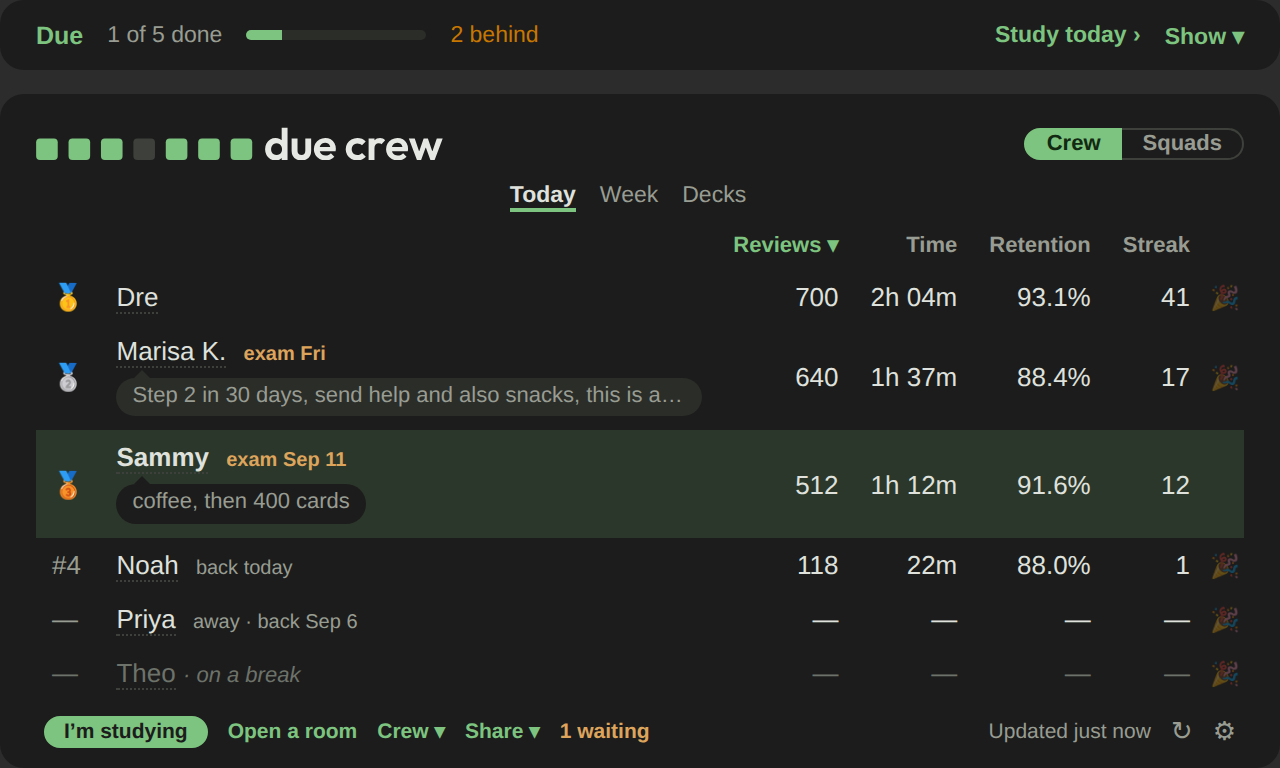
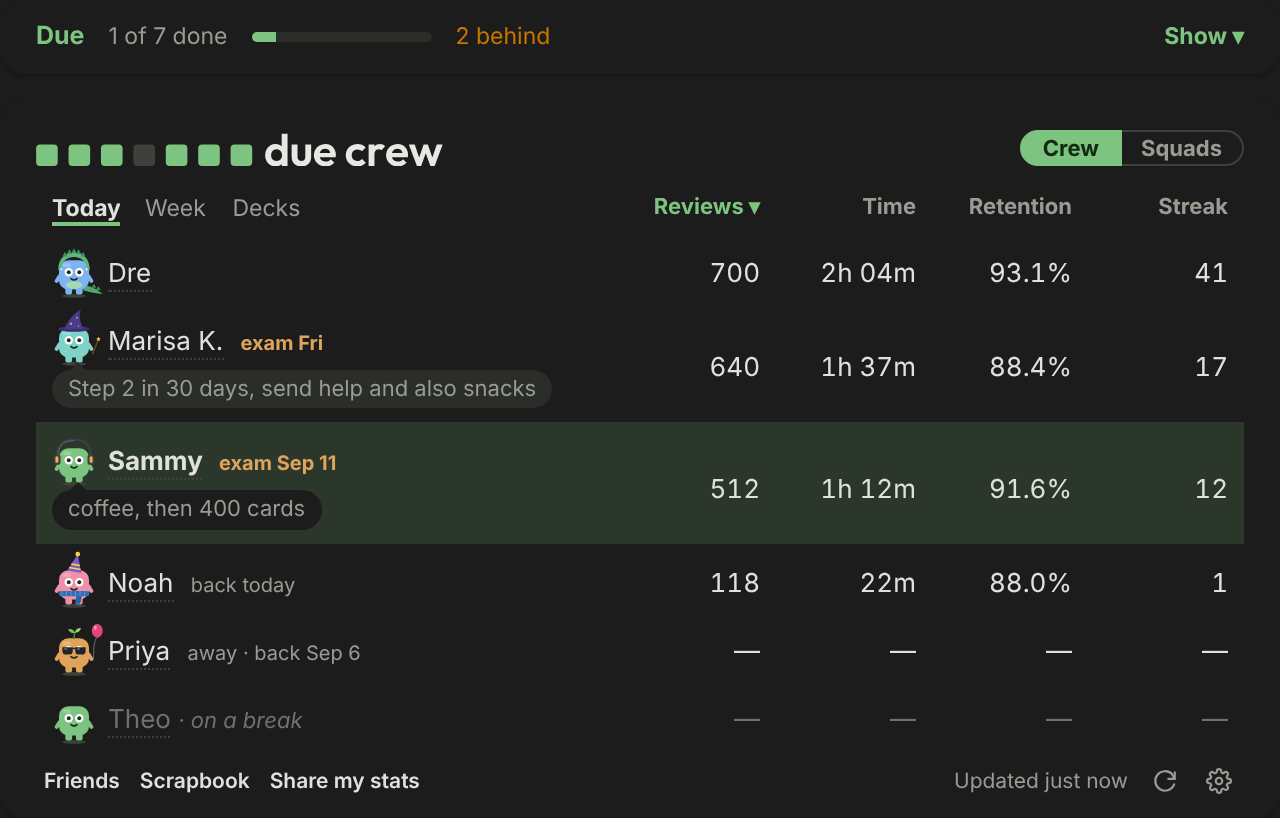
Stage 6: the landing page, README and their pictures are the product as it is now
No rank marks on the landing page's small board; hooks, Party, Magic
search and catching up said; board.png, plans.png and the site's light
and dark pictures rendered from the current board (tools/readme_images).

Claude-Session: https://claude.ai/code/session_01T9RYS9itCJ3KTL7nGa5aCe

diff --git a/site/public/index.html b/site/public/index.html
@@ -54,8 +54,8 @@
   .small { font-size: 13px; }
   .crop table { width: 100%; border-collapse: collapse; font-size: 15px; border: 1px solid var(--line); border-radius: 12px; overflow: hidden; }
   .crop td { padding: 9px 8px; white-space: nowrap; }
-  .crop td:nth-child(n+3) { text-align: right; font-variant-numeric: tabular-nums; }
-  .crop td:nth-child(2) { width: 100%; }
+  .crop td:nth-child(n+2) { text-align: right; font-variant-numeric: tabular-nums; }
+  .crop td:first-child { width: 100%; padding-left: 14px; }
   .crop tr.you td { background: var(--well); }
   .crop .live { color: var(--accent); font-size: 12px; font-weight: 700; }
   @media (max-width: 700px) {
@@ -94,20 +94,23 @@
   </div>
 
   <figure class="wide">
-    <picture><source srcset="/board-dark.png" media="(prefers-color-scheme: dark)"><img src="/board.png" alt="The Due Crew board on Anki's Decks screen" width="1280" height="768"></picture>
+    <picture><source srcset="/board-dark.png" media="(prefers-color-scheme: dark)"><img src="/board.png" alt="The Due Crew board on Anki&#39;s Decks screen" width="1280" height="818"></picture>
   </figure>
   <figure class="phone crop" aria-label="The Due Crew board, three rows">
     <table>
-      <tr><td>&#129351;</td><td>Jordan</td><td>840</td><td>2h 16m</td></tr>
-      <tr class="you"><td>#2</td><td><b>You</b></td><td>512</td><td>1h 12m</td></tr>
-      <tr><td>#3</td><td>Dre <span class="live">studying now</span></td><td>118</td><td>22m</td></tr>
+      <tr><td>Jordan</td><td>840</td><td>2h 16m</td></tr>
+      <tr class="you"><td><b>You</b></td><td>512</td><td>1h 12m</td></tr>
+      <tr><td>Dre <span class="live">studying now</span></td><td>118</td><td>22m</td></tr>
     </table>
   </figure>
 
   <div class="feat">
-    <div><b>Cheers</b>Send one and it rains down their screen.</div>
+    <div><b>Cheers</b>Send one and a little show lands on their screen.</div>
     <div><b>Study rooms</b>Rounds and breaks, together.</div>
     <div><b>Plans</b>A class&rsquo;s cards open on their day. <a href="/classes">For classes</a></div>
+    <div><b>Magic search</b>One box finds the cards for whatever&rsquo;s coming up.</div>
+    <div><b>Hooks</b>The line that made a card click, shared with your crew.</div>
+    <div><b>Party</b>Party games on your own cards, phones in hand.</div>
   </div>
 
   <p class="muted">Free and open source &middot; on <a href="https://ankiweb.net/shared/info/2035408484">AnkiWeb</a> &middot; needs Anki 2.1.55 or newer.</p>

diff --git a/tools/readme_images.js b/tools/readme_images.js
@@ -15,5 +15,12 @@ const { chromium } = require("playwright");
     await (await page.$(sel)).screenshot({ path: path.join(__dirname, "..", "docs", "images", png) });
     console.log("wrote docs/images/" + png);
   }
+  // 3.9.12: the landing page's two (duecrew.com's board.png and board-dark.png)
+  for (const [file, png] of [["readme_site.html", "board.png"], ["readme_site_dark.html", "board-dark.png"]]) {
+    await page.goto("file://" + path.join(__dirname, file));
+    await page.waitForTimeout(400);
+    await (await page.$("#shot")).screenshot({ path: path.join(__dirname, "..", "site", "public", png) });
+    console.log("wrote site/public/" + png);
+  }
   await browser.close();
 })();

diff --git a/tools/readme_images.py b/tools/readme_images.py
@@ -42,7 +42,7 @@ for e in CREW:
 DATA = {"entries": CREW, "labels": L, "tomorrow": P["TOMORROW"], "pending": []}
 
 ME = {"period": "today", "accent": "green", "sev_look": ["headphones"], "sev_closet": {"headphones": L[-1]},
-      "use_told": True}  # (the once-only line about counts isn't the listing's picture)
+      "use_told": True, "live_told": True}  # (the once-only lines aren't the listing's picture)
 html = board.render(DATA, ME, P["now_ts"] - 30,
                     due=dict(P["_DV"], folded=True), plans=P["PLANS"], you=P["_YOU"]("today", folded=True))
 page = f"""<!doctype html><html><head><meta charset="utf-8"><title>README board</title>
@@ -65,3 +65,16 @@ out = os.path.join(HERE, "readme_plans.html")
 with open(out, "w", encoding="utf-8") as f:
     f.write(page)
 print("wrote", out)
+
+# 3.9.12: the landing page's pictures (site/public/board.png and board-dark.png), the same board in each theme
+for name, theme, ground in (("readme_site.html", "light", "#fbfbf8"), ("readme_site_dark.html", "dark", "#1c1c1c")):
+    html = board.render(DATA, dict(ME, theme=theme), P["now_ts"] - 30,
+                        due=dict(P["_DV"], folded=True), plans=P["PLANS"], you=P["_YOU"]("today", folded=True))
+    page = f"""<!doctype html><html><head><meta charset="utf-8"><title>Landing board</title>
+<style>body {{ margin: 0; padding: 16px; background: {ground}; font-family: -apple-system, sans-serif; }}
+#shot {{ width: 640px; }}</style></head>
+<body><center><div id="shot">{html}</div></center></body></html>"""
+    out = os.path.join(HERE, name)
+    with open(out, "w", encoding="utf-8") as f:
+        f.write(page)
+    print("wrote", out)

diff --git a/README.md b/README.md
@@ -5,7 +5,7 @@
 
 Your friends' studying next to yours, on Anki's Decks screen.
 
-<img alt="The Due Crew board on the Decks screen, your day folded above it" src="https://raw.githubusercontent.com/sammyc2472/due-crew/main/docs/images/board.png?v=10" width="600">
+<img alt="The Due Crew board on the Decks screen, your day folded above it" src="https://raw.githubusercontent.com/sammyc2472/due-crew/main/docs/images/board.png?v=11" width="600">
 
 Studying for a big exam is more fun with friends! Due Crew puts your crew on
 Anki's Decks screen: who's studied today, who's studying now, how far
@@ -28,8 +28,9 @@ your own colour.
 
 <img alt="A study room in Anki's top bar" src="https://raw.githubusercontent.com/sammyc2472/due-crew/main/docs/images/room.png?v=2" width="420">
 
-- **Stuck on a card?** Ask your crew. Anyone who has it down can send a
-  tip, which shows next time the card comes up.
+- **Hooks.** Leave the line that made a card click. It comes up, folded
+  till you ask, the next time you miss that card, and for any friend who
+  misses it too. Nobody's left one? Ask your crew.
 - **Good-luck cards.** Leave a line the night before a friend's exam.
 - **Profiles.** Half a year of a friend's studying, and your days in a
   row together.
@@ -65,15 +66,13 @@ Above the board is yours.
   study, your plans' decks first. At the end: take five, go again, or stop there. Your crew
   sees you're studying. Not started by your usual time? Today nudges you.
 - **Insights**, for any deck: your reviews for the next six weeks,
-  counted from your own reviews, and what stopping new cards before your
-  exam would do (one click to stop, one to start again); the cards Anki
-  won't show you before your exam; the leeches Anki stopped showing you,
-  one button each to bring them back; what isn't sticking yet; and a map
-  of what you know, by topic or by the week you started it. It's worked
+  counted from your own reviews; the leeches Anki stopped showing you;
+  how you study; and a map of what you know, by topic or by the week you
+  started it. It only shows: nothing there changes a card. It's worked
   out in your Anki and never sent; copy the map as a picture or as text
   if you want to share it.
 - **Scrapbook.** What your crew sent you and what you did, by month:
-  drawings you take down, good-luck cards, tips that helped, plans you
+  drawings you take down, good-luck cards, hooks that helped, plans you
   finished, under each year's page. Kept on your computer, never sent.
 
 **Pip**, the square from the logo, keeps you company: heads down in a
@@ -86,9 +85,10 @@ turns it off.
 Plan a class's or a crew's studying, in Anki (Tools → Due Crew → Plans →
 New plan…) or on a calendar at duecrew.com: pick chapters from a deck, set
 a pace, mark the exam, and share the code. Everyone following gets that
-day's cards each morning. Behind? **Catch up** or **Push my dates back**.
+day's cards each morning. Fall three days behind and the plan waits for
+you: each day you owe has **Study** and **Ignore**, and its dates don't move.
 
-<img alt="You › Plans: a plan's week, today's assignments open" src="https://raw.githubusercontent.com/sammyc2472/due-crew/main/docs/images/plans.png?v=8" width="600">
+<img alt="You › Plans: a plan's week, today's assignments open" src="https://raw.githubusercontent.com/sammyc2472/due-crew/main/docs/images/plans.png?v=9" width="600">
 
 - **Your week.** You › Plans shows the plan's seven days; click one for
   its assignments. Following two plans? Switch between them by name.
@@ -119,6 +119,12 @@ day's cards each morning. Behind? **Catch up** or **Push my dates back**.
 - Plans can have co-authors (each says yes first), notes for followers
   on a video or a card, go in your calendar app, and be shared in the
   library.
+
+## Party
+
+Party games on your own cards: Trivia, Imposter and Links. Pick what
+they're about in You › Party and press Host. The TV is a window of
+Anki's; phones join at duecrew.com with its code.
 
 ## In Anki's browser
 
